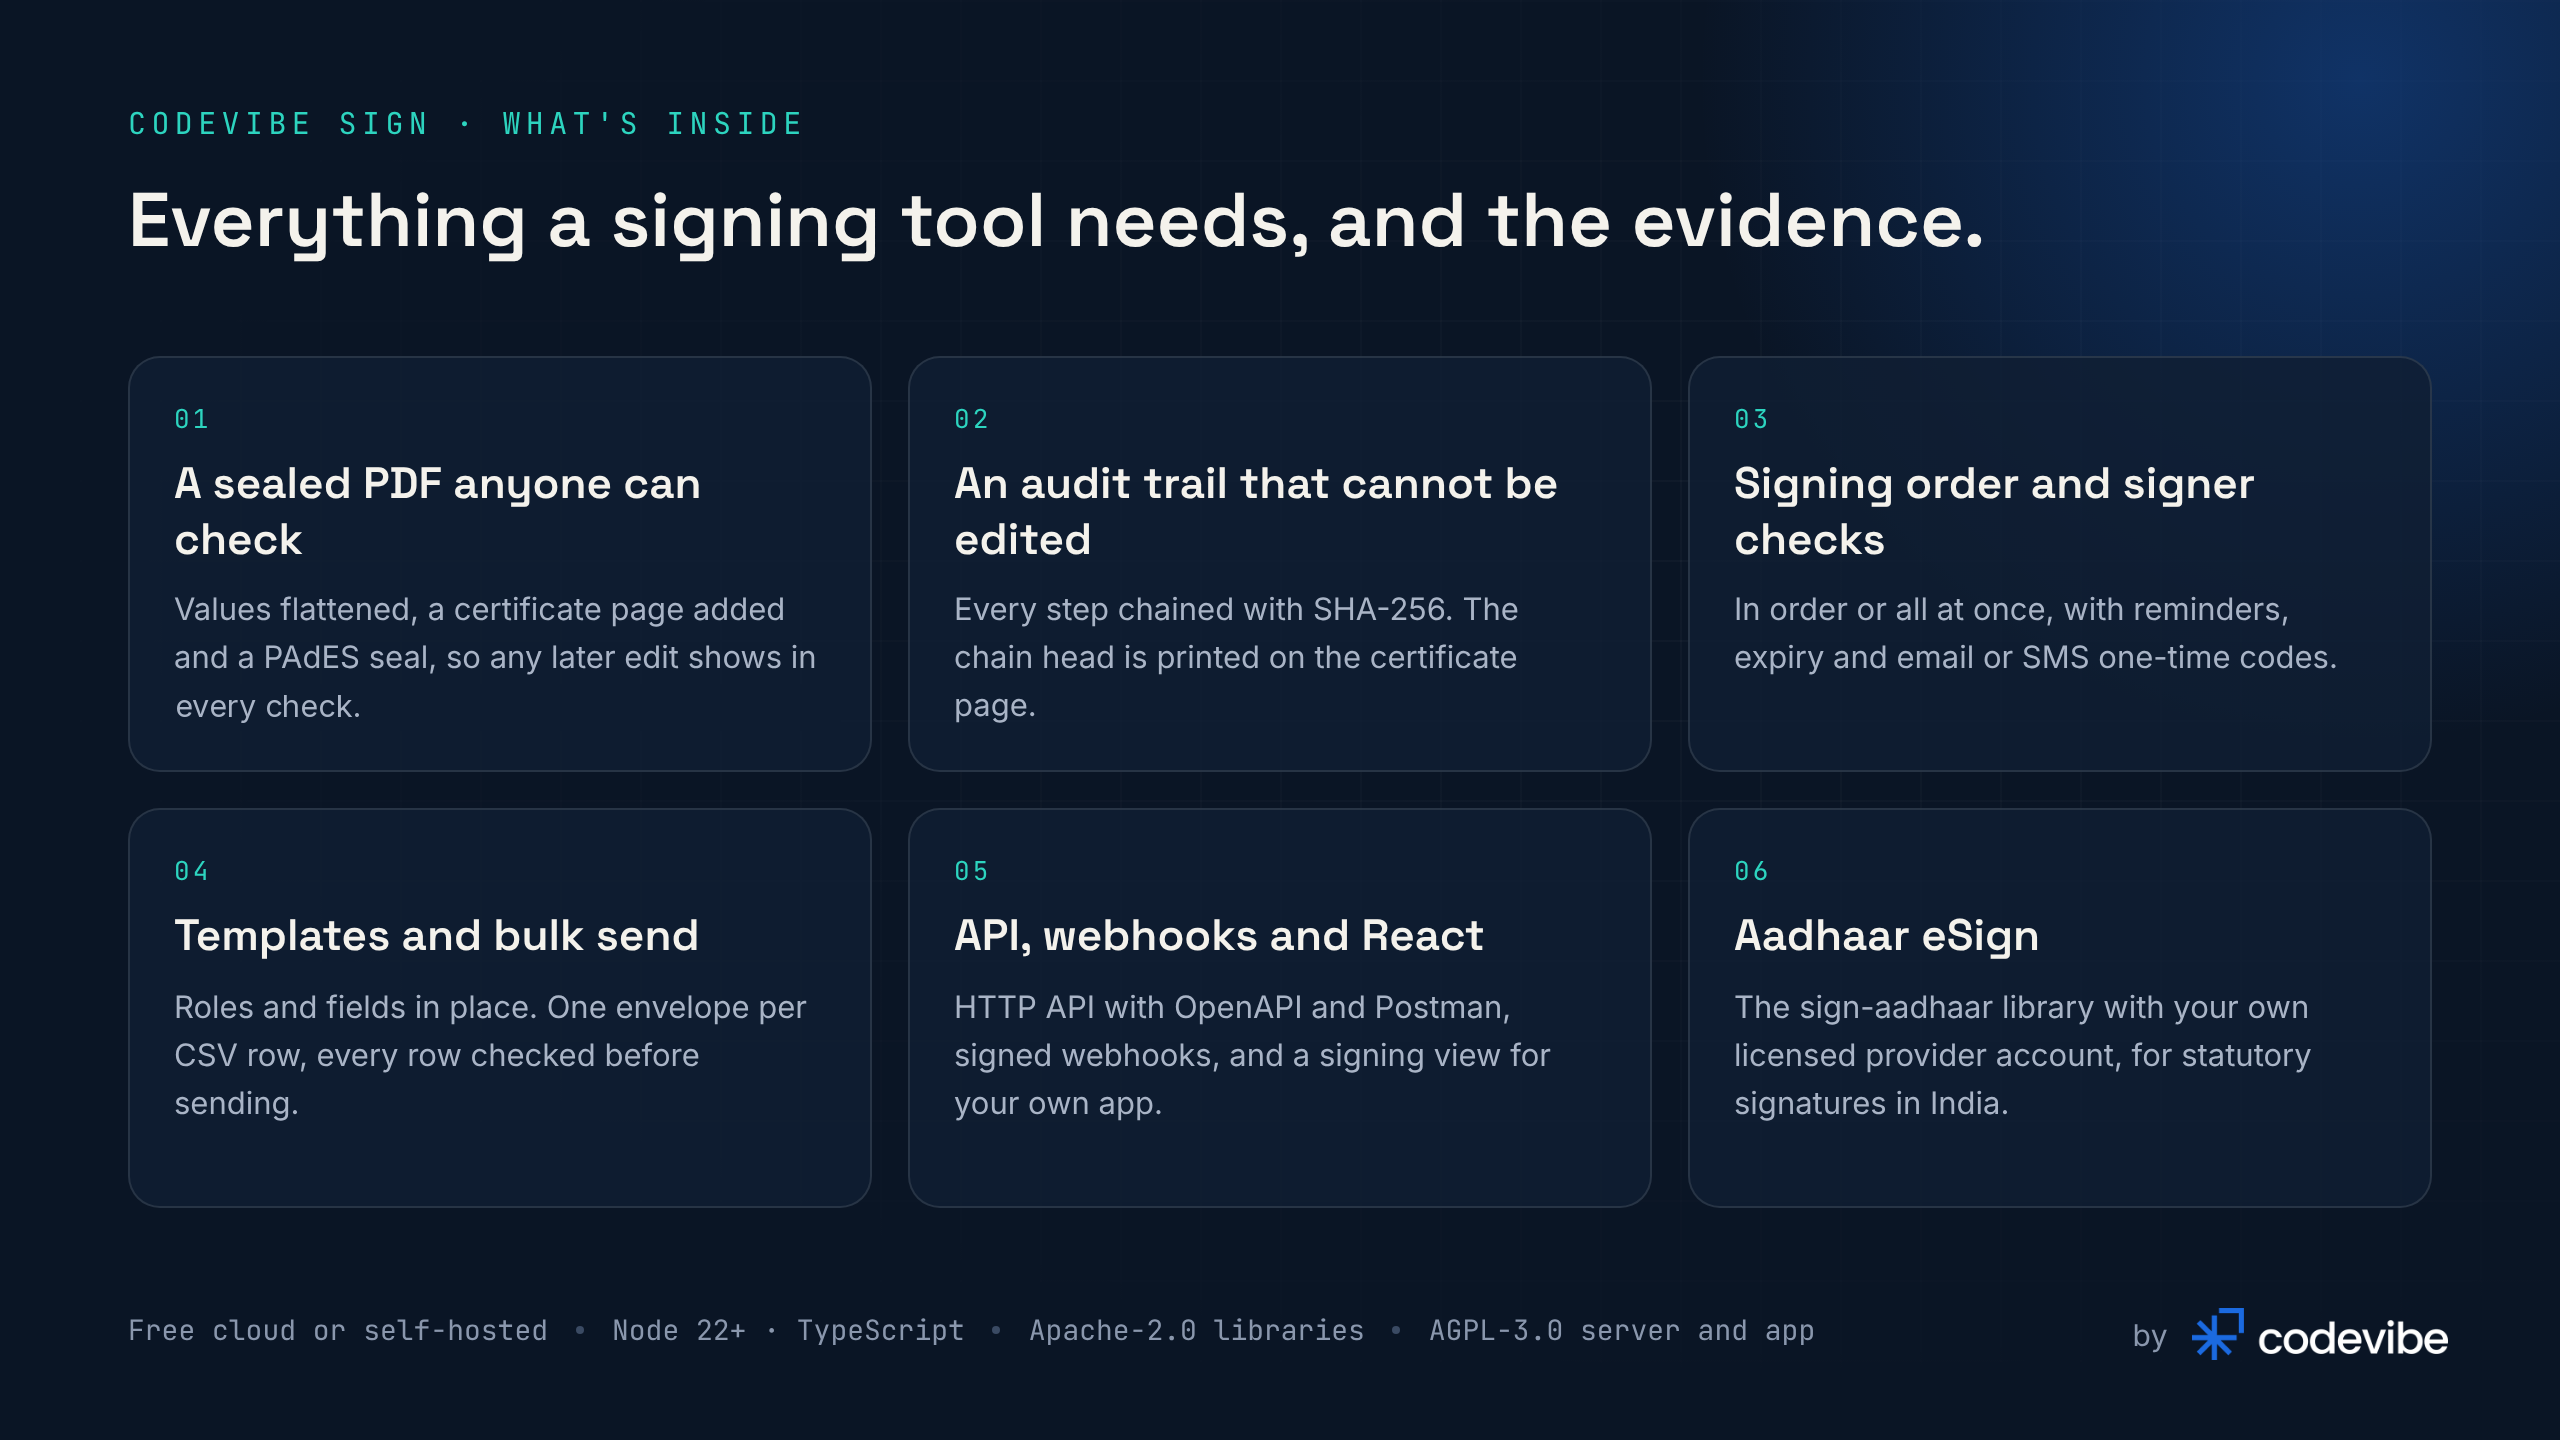
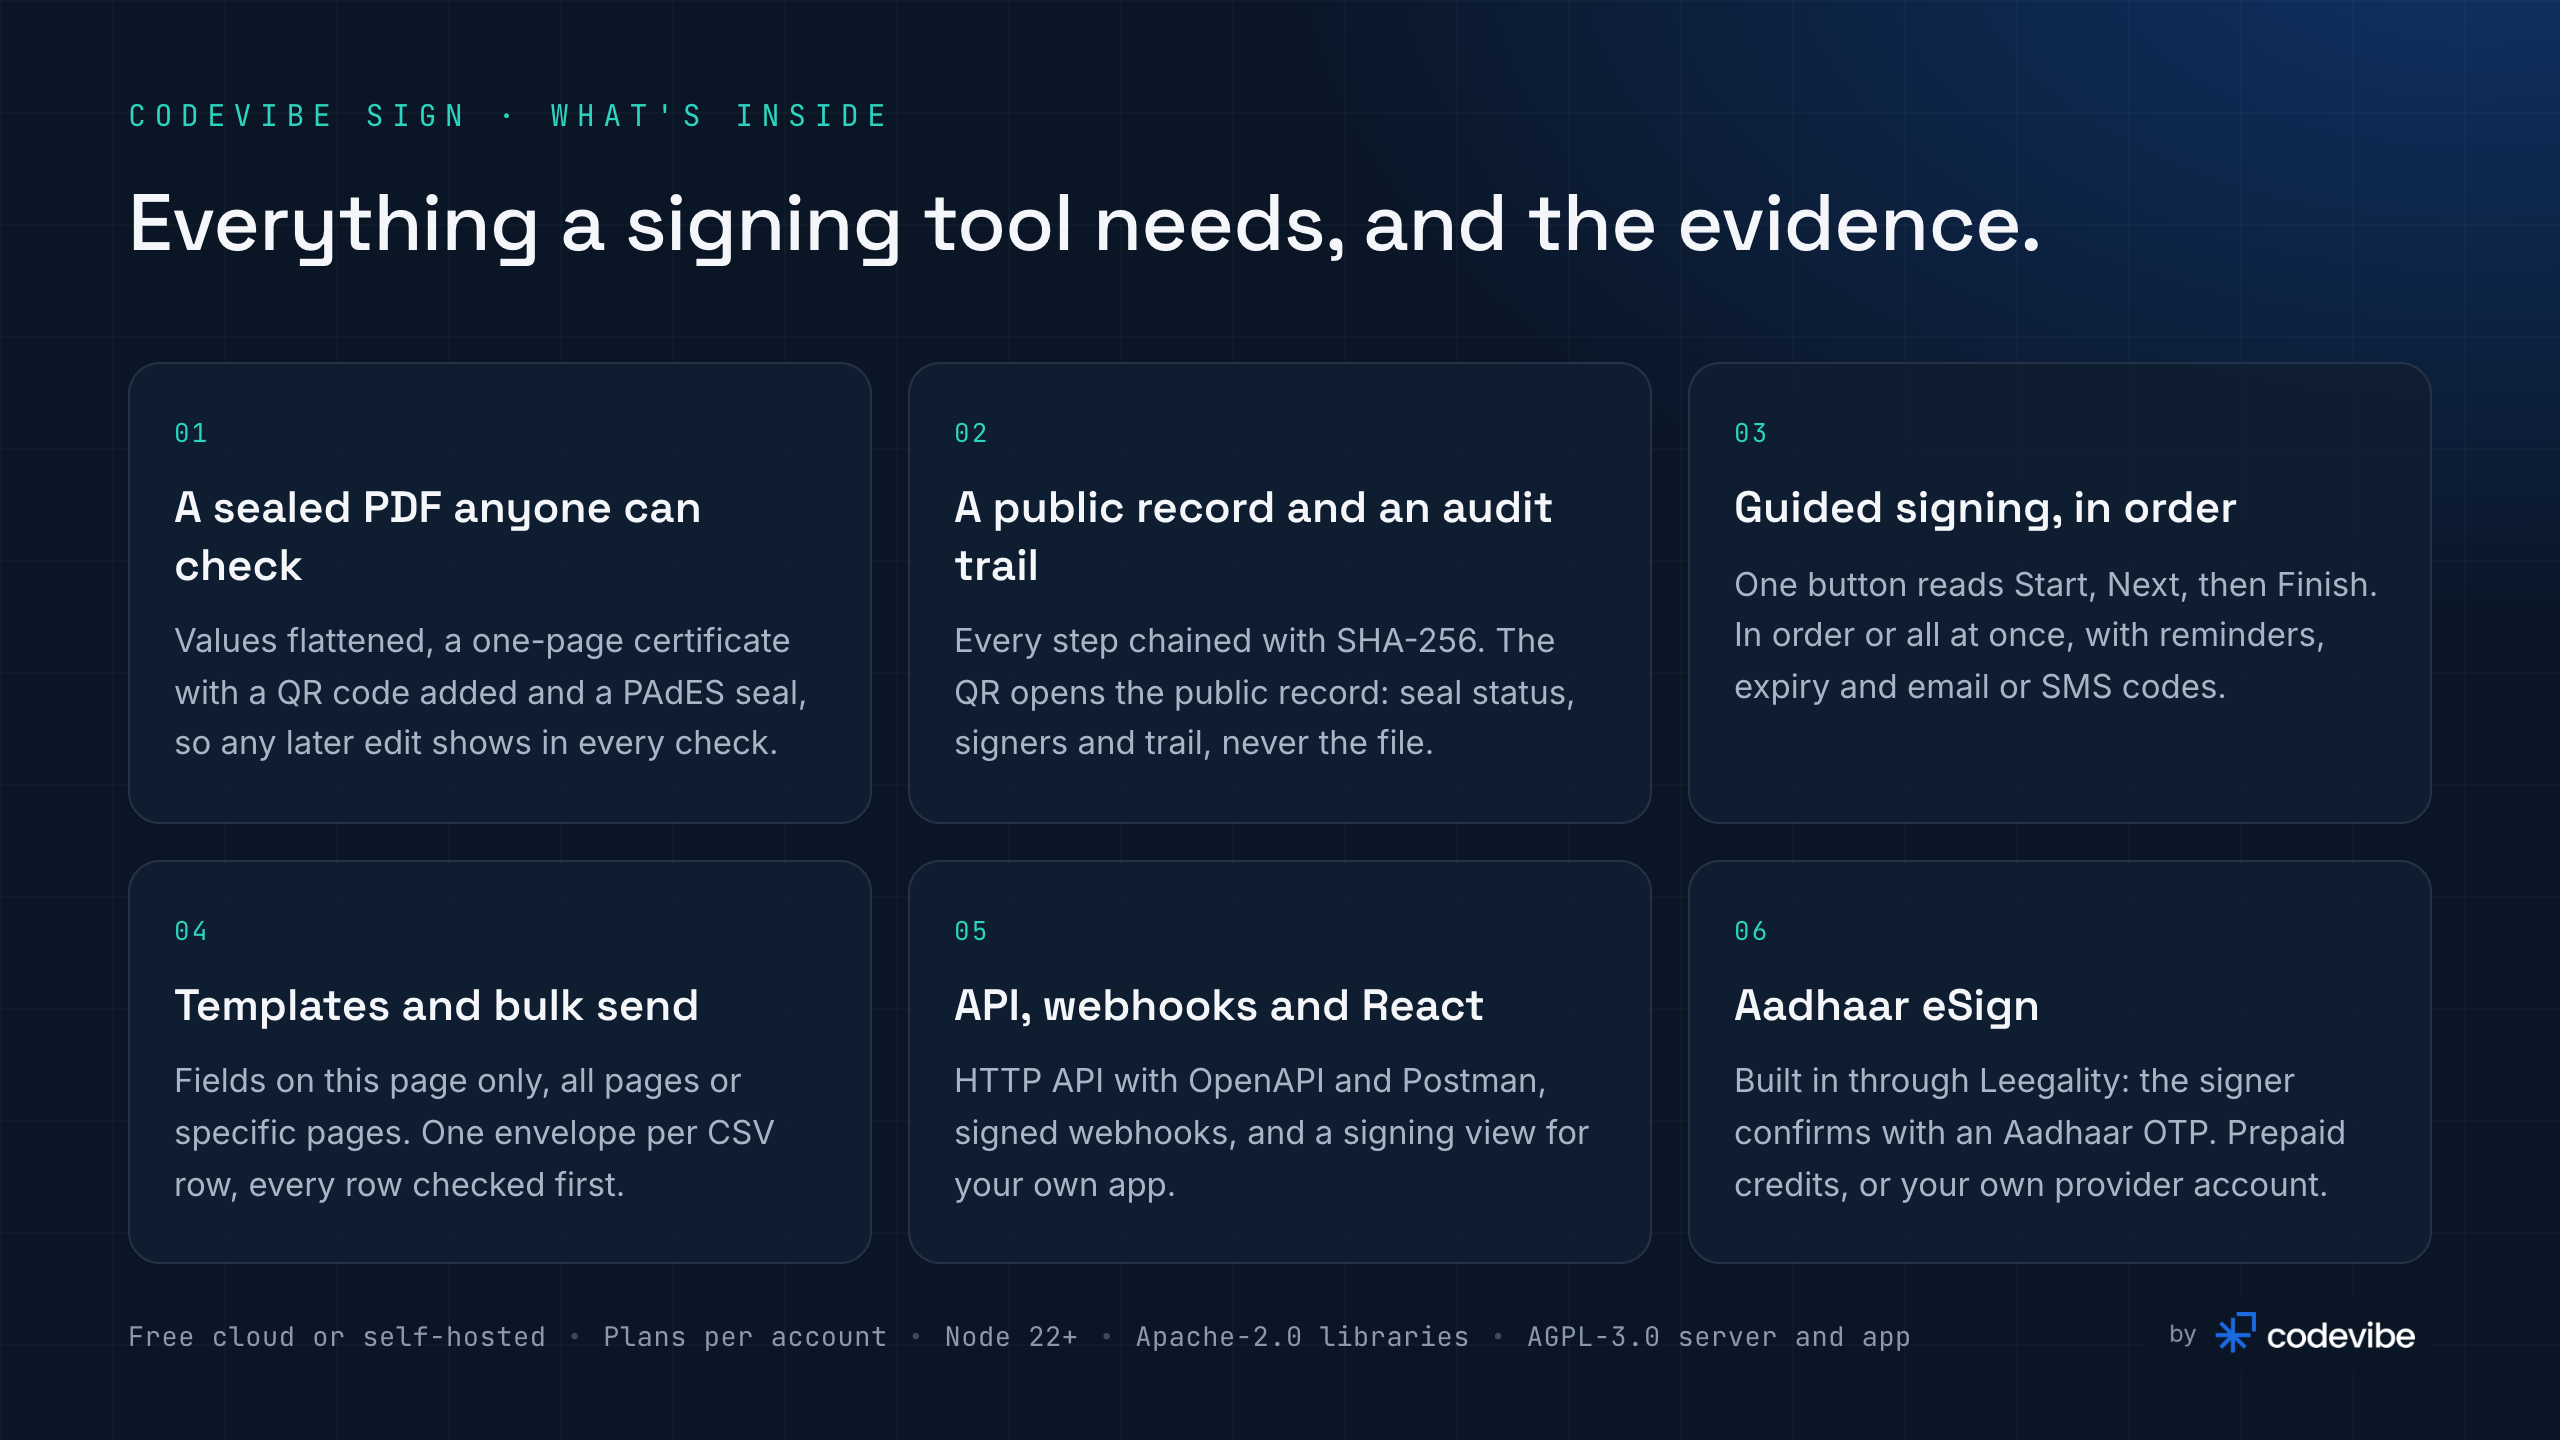
docs(readme): refresh the images to the current app

diff --git a/README.md b/README.md
@@ -75,7 +75,7 @@ npm i codevibe-sign
 ## Features
 
 <p align="center">
-  <img src=".github/assets/whats-inside.png" alt="What's inside Codevibe Sign: a sealed PDF anyone can check, an audit trail that cannot be edited, signing order and signer checks, templates and bulk send, API, webhooks and React, and Aadhaar eSign" width="100%">
+  <img src=".github/assets/whats-inside.png" alt="What's inside Codevibe Sign: a sealed PDF with a one-page certificate and QR code, a public record and an audit trail, guided signing in order, templates and bulk send, API, webhooks and React, and Aadhaar eSign through Leegality" width="100%">
 </p>
 
 - 📄 **Envelopes** with several documents and recipients: signers, approvers and viewers.
@@ -98,7 +98,7 @@ npm i codevibe-sign
 ## How it works
 
 <p align="center">
-  <img src=".github/assets/how-it-works.png" alt="How Codevibe Sign works: send, sign in order, seal, verify" width="100%">
+  <img src=".github/assets/how-it-works.png" alt="How Codevibe Sign works: send with fields on one page, all pages or specific pages; sign in order with Start, Next and Finish; seal with a one-page certificate and a QR code; verify on the public record or the verify page" width="100%">
 </p>
 
 1. **Send.** The sender creates an envelope: documents, recipients, fields and routing. Each
